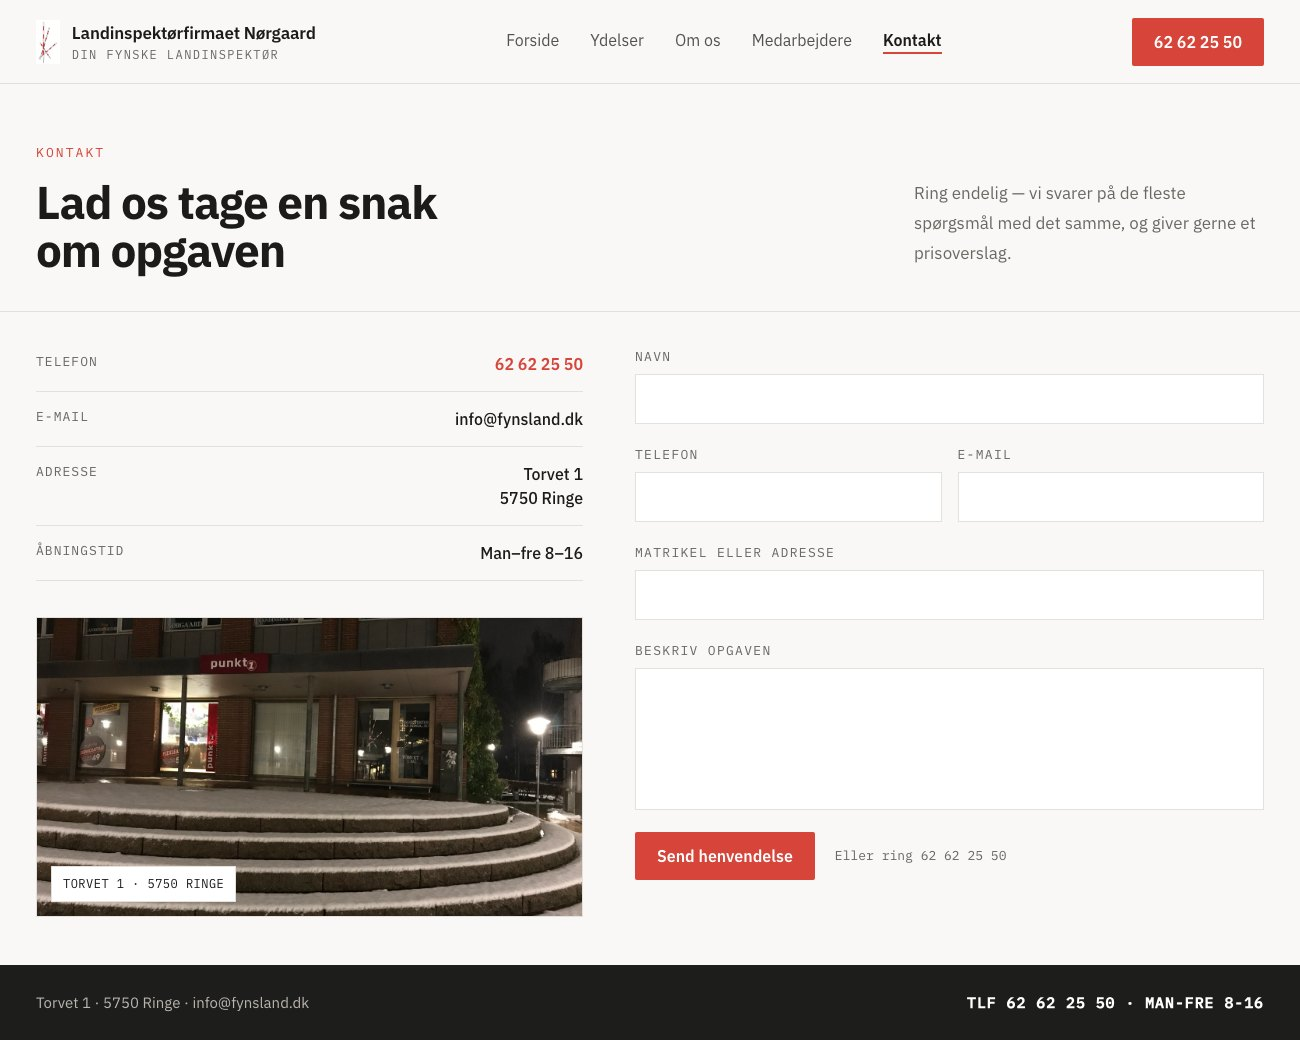
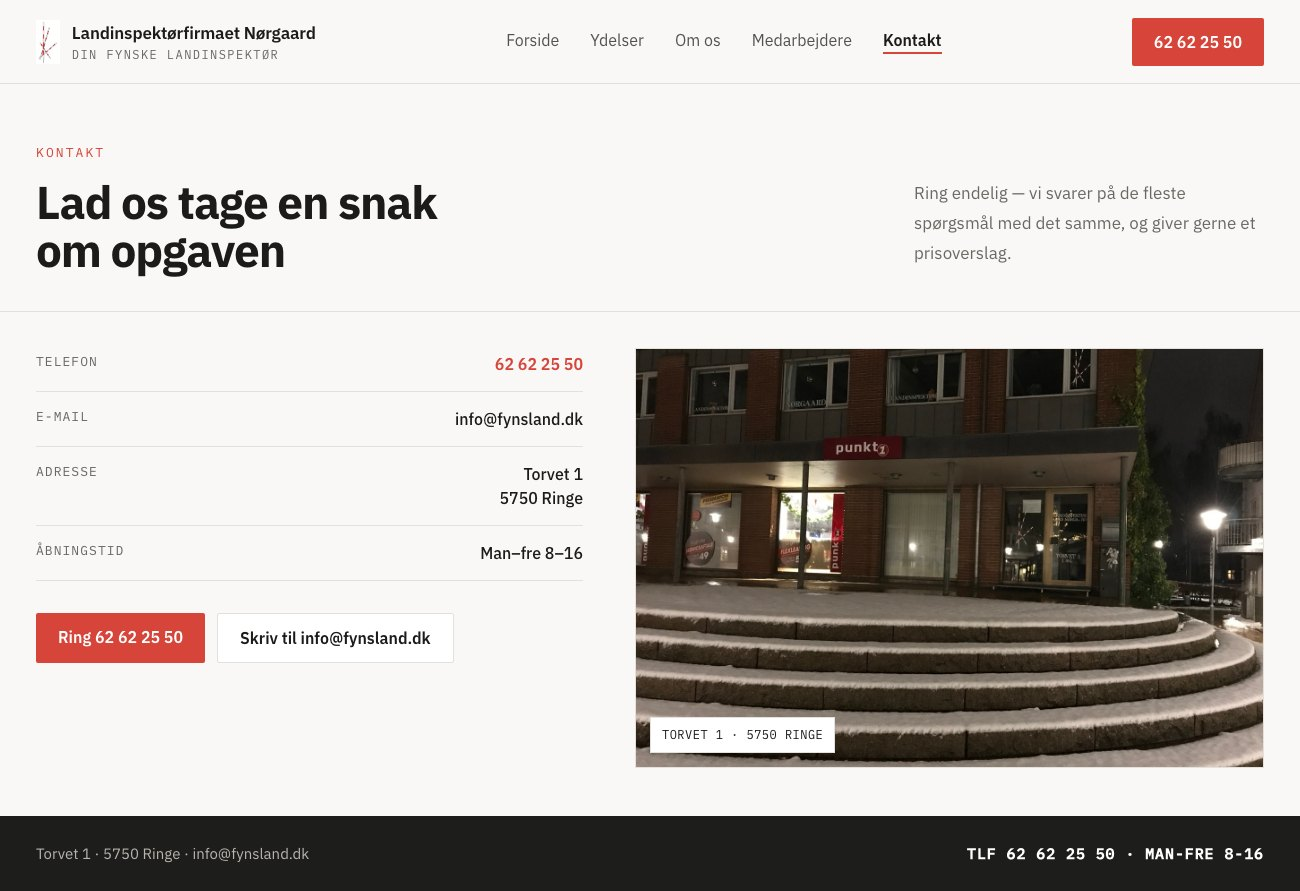
FYNSLAND: drop the contact form from the Kontakt redesign
Contact details now sit in one column with a call button and a mail
button, and the office photo takes the column the form used. The case
page copy no longer promises a form.

diff --git a/p/fynsland-06856c4d-89b3-4531-a19e-3753dbc749e6/index.html b/p/fynsland-06856c4d-89b3-4531-a19e-3753dbc749e6/index.html
@@ -123,7 +123,7 @@ title: "Landinspektørfirmaet Nørgaard: sådan kunne jeres nye hjemmeside se ud
       <div class="copy">
         <div class="eyebrow">Side 3 af 3</div>
         <h2>Kontakt</h2>
-        <p>I dag kan man læse jeres adresse og se et Google-kort, men man kan ikke skrive til jer fra siden. Den nye side har en rigtig formular med et felt til <em>matrikel eller adresse</em>, så I har sagen med det samme i stedet for at skulle ringe tilbage og spørge.</p>
+        <p>I dag står adresse, telefon og åbningstid som løs tekst ved siden af et Google-kort. I det nye design er alle kontaktoplysninger samlet ét sted, og der er to tydelige veje videre: én knap til at ringe og én til at skrive en mail.</p>
         <ul class="note-row">
           <li>Telefonnummeret står øverst og er trykbart på mobil</li>
           <li>Åbningstider som fast oplysning</li>
